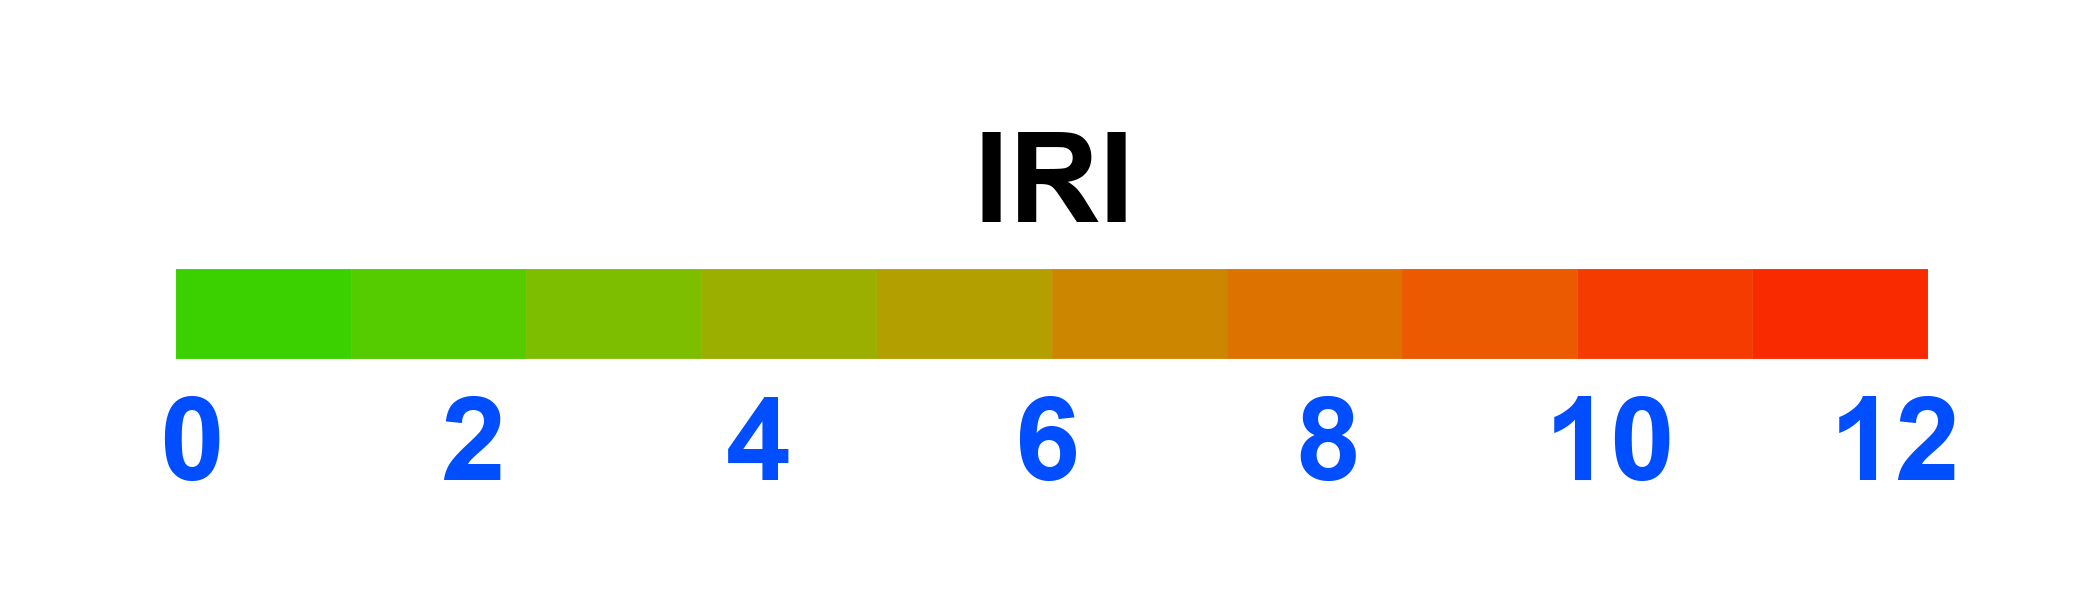
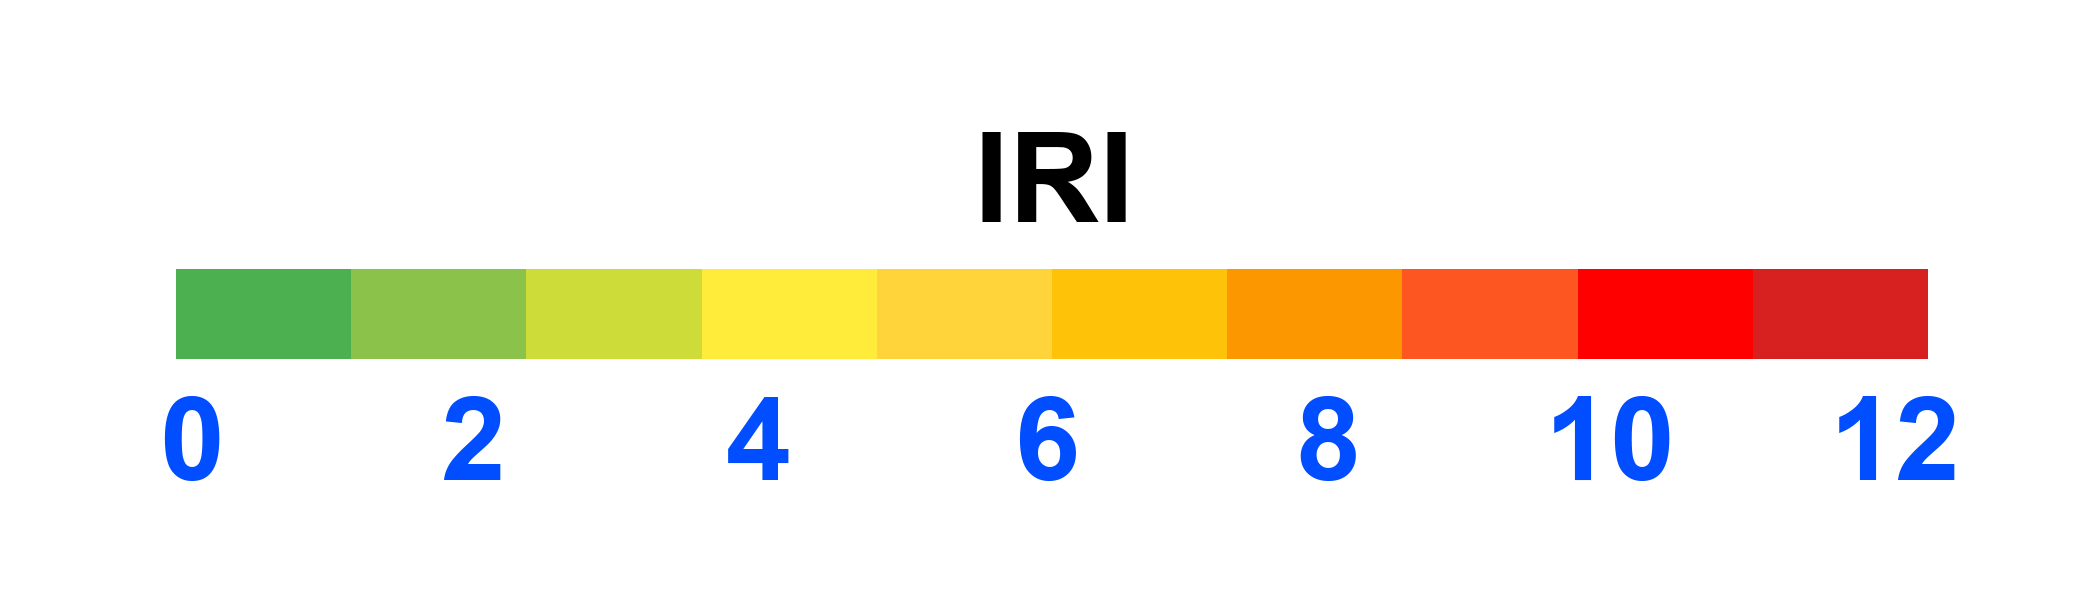
update map: update legend

Changed region(s): [[0.0619, 0.45, 0.9286, 0.6]]

diff --git a/src/app/modules/dashboard/component/map/map.component.ts b/src/app/modules/dashboard/component/map/map.component.ts
@@ -15,16 +15,16 @@ export class MapComponent implements OnInit {
   surveys: SurveyTrack[] = [];
   // http://eyetracking.upol.cz/color/
   colorsBar = [
-    '#3bd100',
-    '#55cc00',
-    '#7dbf00',
-    '#9baf00',
-    '#b39f00',
-    '#cd8600',
-    '#dd7200',
-    '#eb5900',
-    '#f63b00',
-    '#fa2a00'
+    '#4CB050',
+    '#8BC24A',
+    '#CDDC39',
+    '#FFEC3A',
+    '#FFD43A',
+    '#FEC207',
+    '#FD9700',
+    '#FD5621',
+    '#FF0000',
+    '#D72020'
   ];
   protected infoWindowClick = new google.maps.InfoWindow();
 

diff --git a/src/app/modules/dashboard/component/map/map.component.scss b/src/app/modules/dashboard/component/map/map.component.scss
@@ -1,5 +1,5 @@
 #map {
-    height: 500px;
+    height: 580px;
 }
 
 #legend {
